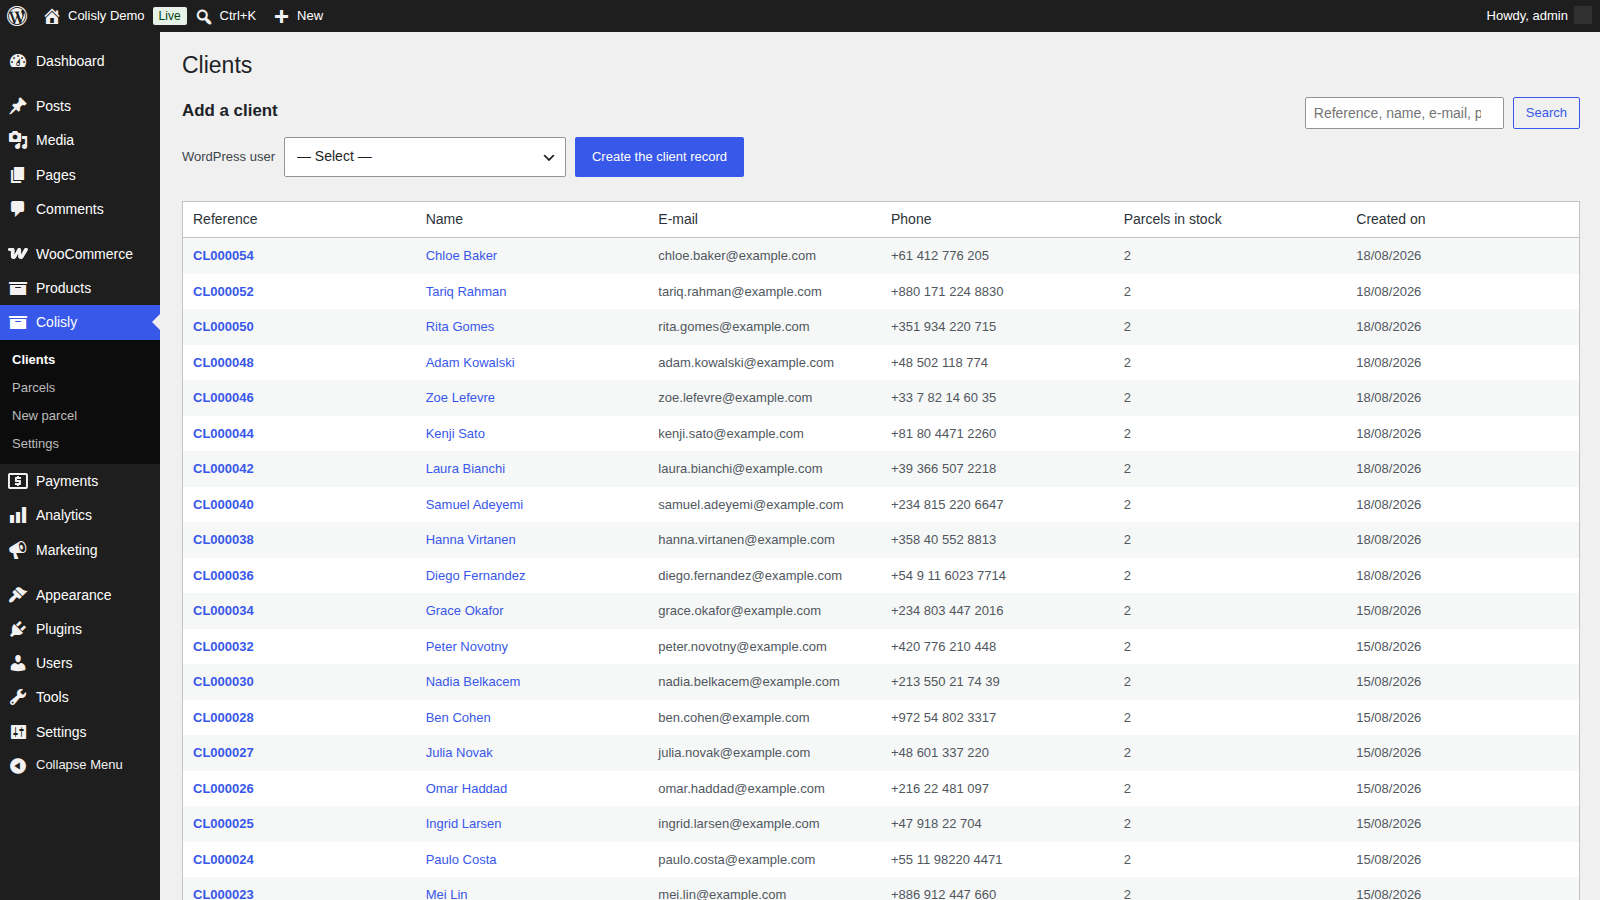
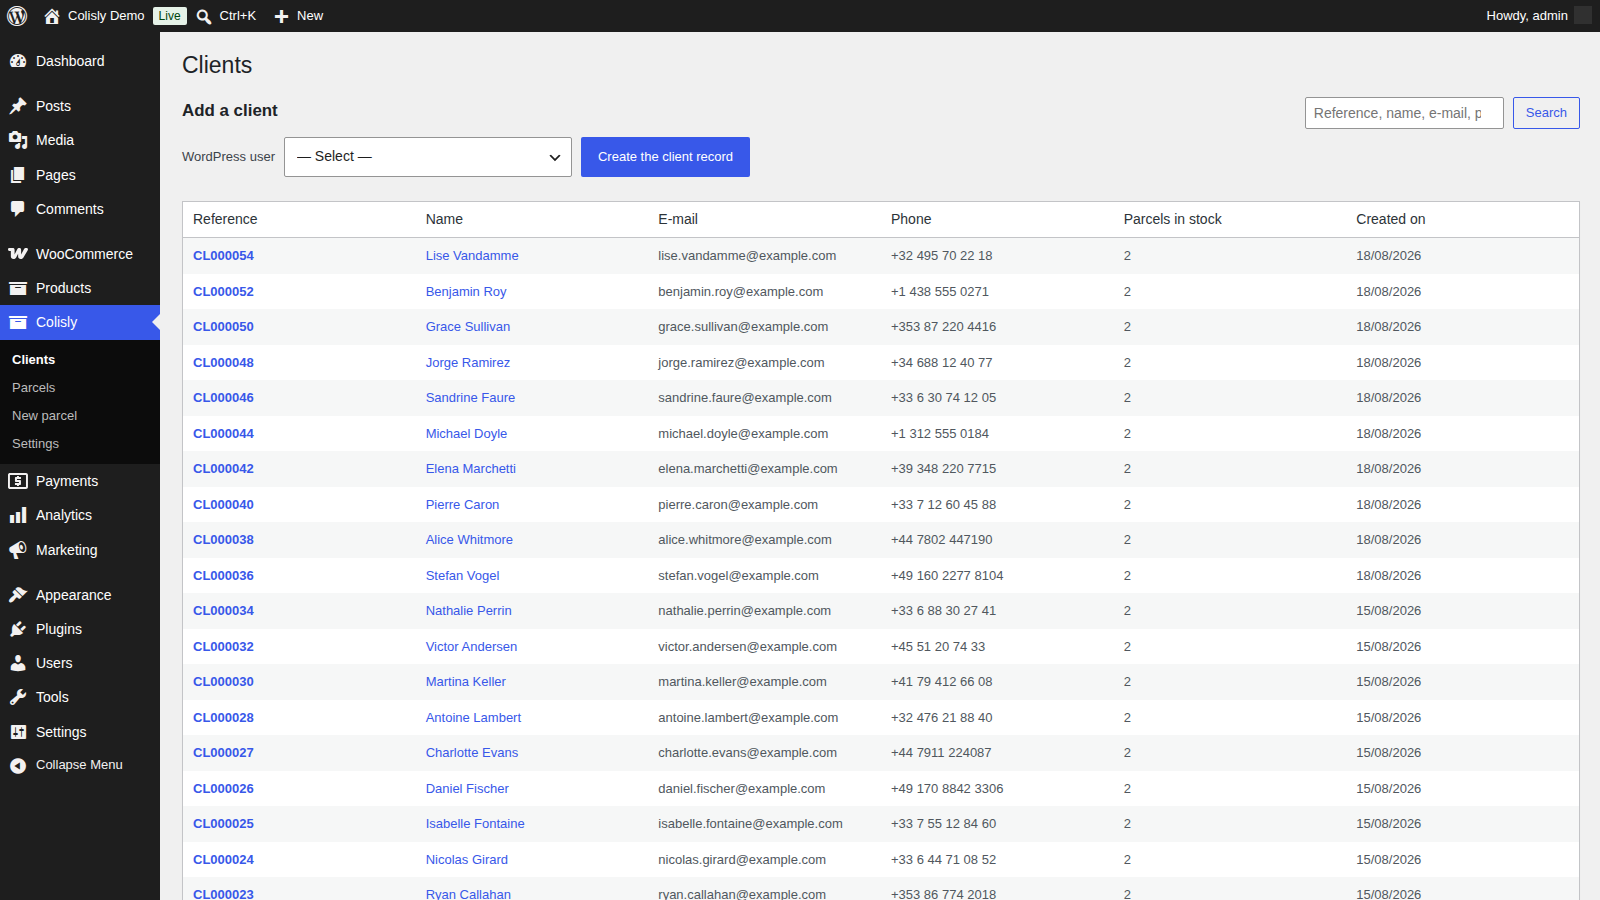
Use Western demo names and make the seeder rerunnable
Reseeding with a reordered name list left some clients unchanged: an e-mail
still held by another seeded user makes wp_update_user() return a WP_Error,
which the seeder discarded. Park every address on a unique placeholder
first, then apply the final identities, and report any failure instead of
swallowing it.

Recaptured the four screenshots against the updated data.

Claude-Session: https://claude.ai/code/session_01F7Ke6fBcJ1en5UuMDEKfSo

diff --git a/tests/seed-demo-data.php b/tests/seed-demo-data.php
@@ -15,46 +15,66 @@ $people = array(
 	array( 'Sophie', 'Bernard', 'fr', '+33 6 74 21 09 36' ),
 	array( 'Lucas', 'Moreau', 'fr', '+33 7 68 33 51 24' ),
 	array( 'Amelie', 'Rousseau', 'fr', '+33 6 09 87 14 62' ),
-	array( 'David', 'Chen', 'sg', '+65 8123 4477' ),
-	array( 'Priya', 'Sharma', 'in', '+91 98 2045 7731' ),
-	array( 'James', 'Wilson', 'uk', '+44 7700 903214' ),
+	array( 'Thomas', 'Weber', 'de', '+49 151 2340 7791' ),
+	array( 'Emma', 'Johansson', 'se', '+46 70 412 88 03' ),
+	array( 'James', 'Wilson', 'gb', '+44 7700 903214' ),
 	array( 'Ana', 'Silva', 'pt', '+351 912 447 083' ),
 	array( 'Marco', 'Rossi', 'it', '+39 340 118 9042' ),
-	array( 'Yuki', 'Tanaka', 'jp', '+81 90 3312 5580' ),
-	array( 'Emma', 'Johansson', 'se', '+46 70 412 88 03' ),
-	array( 'Carlos', 'Mendes', 'br', '+55 21 99841 2270' ),
-	array( 'Fatima', 'Zahra', 'ma', '+212 661 20 44 87' ),
-	array( 'Thomas', 'Weber', 'de', '+49 151 2340 7791' ),
-	array( 'Olivia', 'Brown', 'ca', '+1 604 555 0142' ),
-	array( 'Minh', 'Nguyen', 'vn', '+84 90 227 6614' ),
-	array( 'Sara', 'Lopez', 'es', '+34 655 30 18 27' ),
-	array( 'Kwame', 'Mensah', 'gh', '+233 24 776 3310' ),
-	array( 'Elena', 'Petrova', 'bg', '+359 88 412 7705' ),
-	array( 'Hassan', 'Ali', 'ae', '+971 50 663 2214' ),
 	array( 'Claire', 'Dubois', 'fr', '+33 6 51 30 22 78' ),
-	array( 'Ryan', 'OConnor', 'ie', '+353 86 774 2018' ),
-	array( 'Mei', 'Lin', 'tw', '+886 912 447 660' ),
-	array( 'Paulo', 'Costa', 'br', '+55 11 98220 4471' ),
-	array( 'Ingrid', 'Larsen', 'no', '+47 918 22 704' ),
-	array( 'Omar', 'Haddad', 'tn', '+216 22 481 097' ),
+	array( 'Olivia', 'Brown', 'ca', '+1 604 555 0142' ),
+	array( 'Sara', 'Lopez', 'es', '+34 655 30 18 27' ),
 	array( 'Julia', 'Novak', 'pl', '+48 601 337 220' ),
-	array( 'Ben', 'Cohen', 'il', '+972 54 802 3317' ),
-	array( 'Nadia', 'Belkacem', 'dz', '+213 550 21 74 39' ),
 	array( 'Peter', 'Novotny', 'cz', '+420 776 210 448' ),
-	array( 'Grace', 'Okafor', 'ng', '+234 803 447 2016' ),
-	array( 'Diego', 'Fernandez', 'ar', '+54 9 11 6023 7714' ),
-	array( 'Hanna', 'Virtanen', 'fi', '+358 40 552 8813' ),
-	array( 'Samuel', 'Adeyemi', 'ng', '+234 815 220 6647' ),
+	array( 'Ingrid', 'Larsen', 'no', '+47 918 22 704' ),
+	array( 'Paulo', 'Costa', 'pt', '+351 934 220 715' ),
 	array( 'Laura', 'Bianchi', 'it', '+39 366 507 2218' ),
-	array( 'Kenji', 'Sato', 'jp', '+81 80 4471 2260' ),
-	array( 'Zoe', 'Lefevre', 'fr', '+33 7 82 14 60 35' ),
+	array( 'Diego', 'Fernandez', 'es', '+34 622 47 90 15' ),
+	array( 'Hanna', 'Virtanen', 'fi', '+358 40 552 8813' ),
 	array( 'Adam', 'Kowalski', 'pl', '+48 502 118 774' ),
-	array( 'Rita', 'Gomes', 'pt', '+351 934 220 715' ),
-	array( 'Tariq', 'Rahman', 'bd', '+880 171 224 8830' ),
+	array( 'Rita', 'Gomes', 'pt', '+351 966 401 238' ),
 	array( 'Chloe', 'Baker', 'au', '+61 412 776 205' ),
+	array( 'Ryan', 'Callahan', 'ie', '+353 86 774 2018' ),
+	array( 'Nicolas', 'Girard', 'fr', '+33 6 44 71 08 52' ),
+	array( 'Isabelle', 'Fontaine', 'fr', '+33 7 55 12 84 60' ),
+	array( 'Daniel', 'Fischer', 'de', '+49 170 8842 3306' ),
+	array( 'Charlotte', 'Evans', 'gb', '+44 7911 224087' ),
+	array( 'Antoine', 'Lambert', 'be', '+32 476 21 88 40' ),
+	array( 'Martina', 'Keller', 'ch', '+41 79 412 66 08' ),
+	array( 'Victor', 'Andersen', 'dk', '+45 51 20 74 33' ),
+	array( 'Nathalie', 'Perrin', 'fr', '+33 6 88 30 27 41' ),
+	array( 'Stefan', 'Vogel', 'de', '+49 160 2277 8104' ),
+	array( 'Alice', 'Whitmore', 'gb', '+44 7802 447190' ),
+	array( 'Pierre', 'Caron', 'fr', '+33 7 12 60 45 88' ),
+	array( 'Elena', 'Marchetti', 'it', '+39 348 220 7715' ),
+	array( 'Michael', 'Doyle', 'us', '+1 312 555 0184' ),
+	array( 'Sandrine', 'Faure', 'fr', '+33 6 30 74 12 05' ),
+	array( 'Jorge', 'Ramirez', 'es', '+34 688 12 40 77' ),
+	array( 'Grace', 'Sullivan', 'ie', '+353 87 220 4416' ),
+	array( 'Benjamin', 'Roy', 'ca', '+1 438 555 0271' ),
+	array( 'Lise', 'Vandamme', 'be', '+32 495 70 22 18' ),
 );
 
 $clients = $wpdb->get_results( "SELECT id, user_id FROM {$wpdb->prefix}colisly_clients ORDER BY id ASC" );
+
+/*
+ * Pass 1: park every address on a unique placeholder. Without this, reusing an
+ * e-mail that another seeded user still holds makes wp_update_user() fail
+ * silently and that client keeps its previous identity.
+ */
+foreach ( $clients as $i => $client ) {
+	if ( ! isset( $people[ $i ] ) || ! $client->user_id || ! get_userdata( $client->user_id ) ) {
+		continue;
+	}
+
+	$wpdb->update(
+		$wpdb->users,
+		array( 'user_email' => 'colisly-seed-' . (int) $client->user_id . '@example.com' ),
+		array( 'ID' => (int) $client->user_id )
+	);
+	clean_user_cache( (int) $client->user_id );
+}
+
+// Pass 2: apply the final identities.
 $updated = 0;
 
 foreach ( $clients as $i => $client ) {
@@ -66,7 +86,7 @@ foreach ( $clients as $i => $client ) {
 	$email = strtolower( $first . '.' . $last ) . '@example.com';
 
 	if ( $client->user_id && get_userdata( $client->user_id ) ) {
-		wp_update_user(
+		$result = wp_update_user(
 			array(
 				'ID'           => $client->user_id,
 				'first_name'   => $first,
@@ -75,6 +95,12 @@ foreach ( $clients as $i => $client ) {
 				'user_email'   => $email,
 			)
 		);
+
+		if ( is_wp_error( $result ) ) {
+			echo "FAILED user {$client->user_id}: " . $result->get_error_message() . "\n";
+			continue;
+		}
+
 		update_user_meta( $client->user_id, 'billing_first_name', $first );
 		update_user_meta( $client->user_id, 'billing_last_name', $last );
 		update_user_meta( $client->user_id, 'billing_email', $email );
